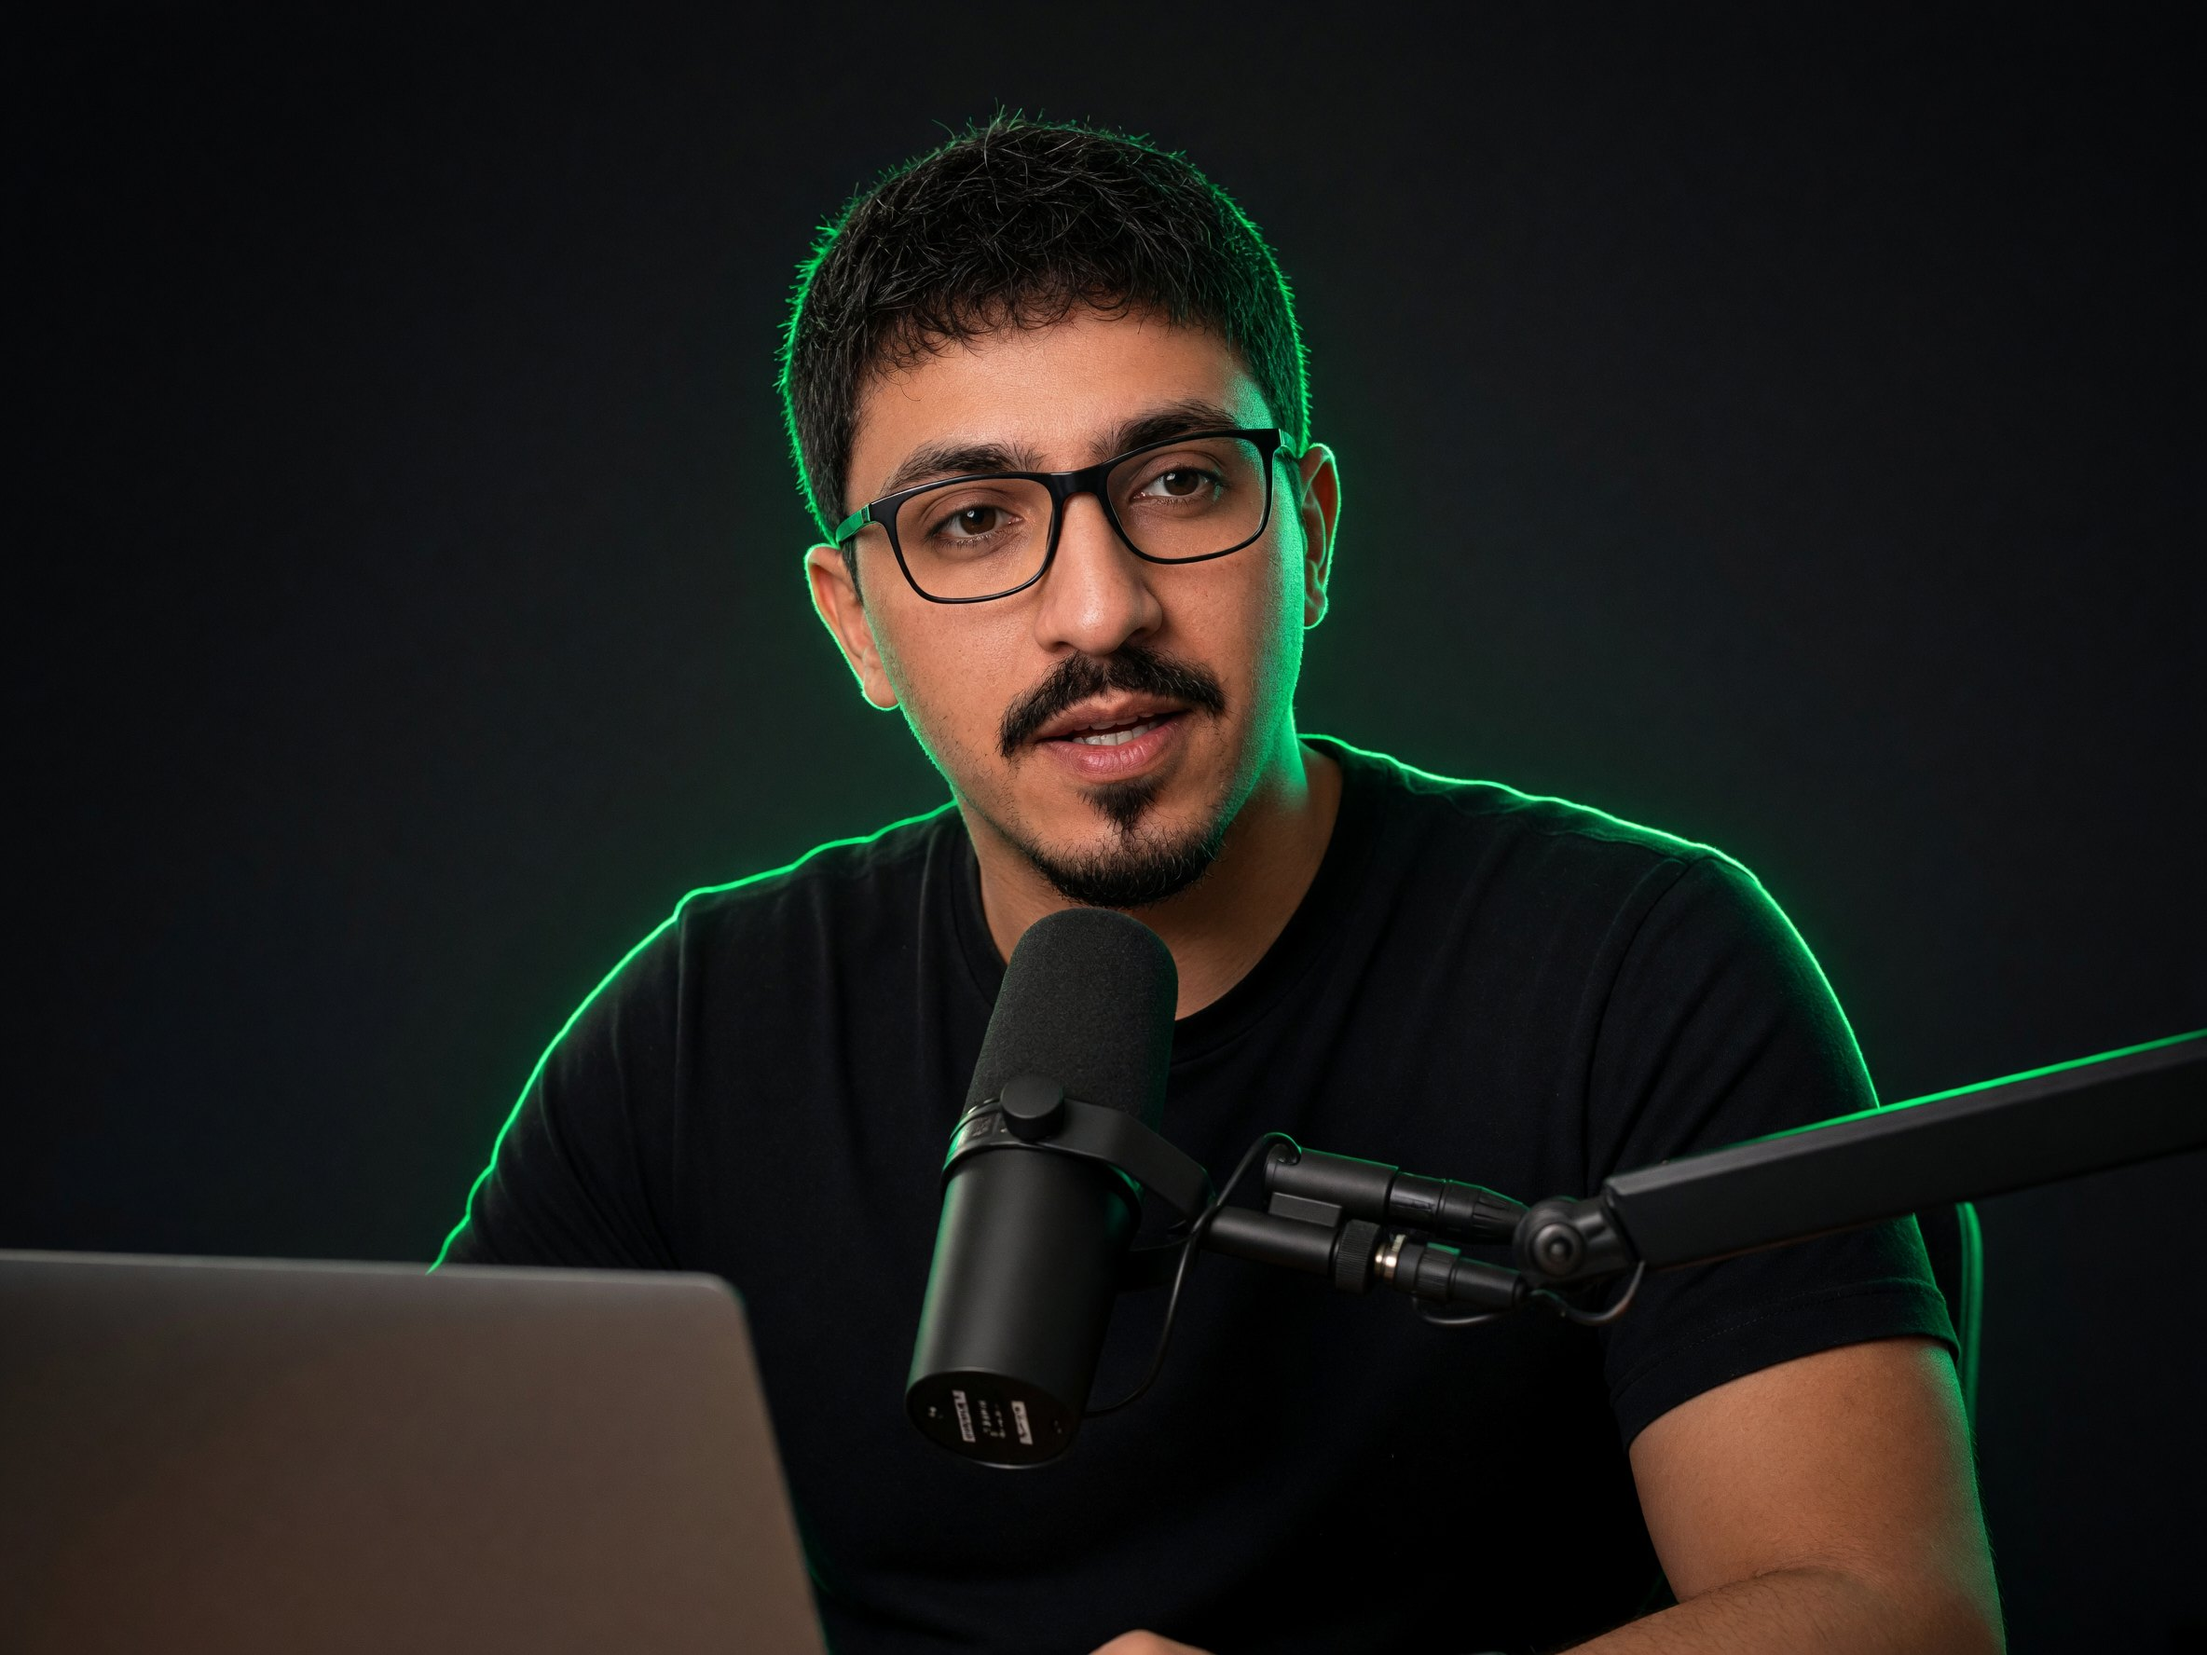
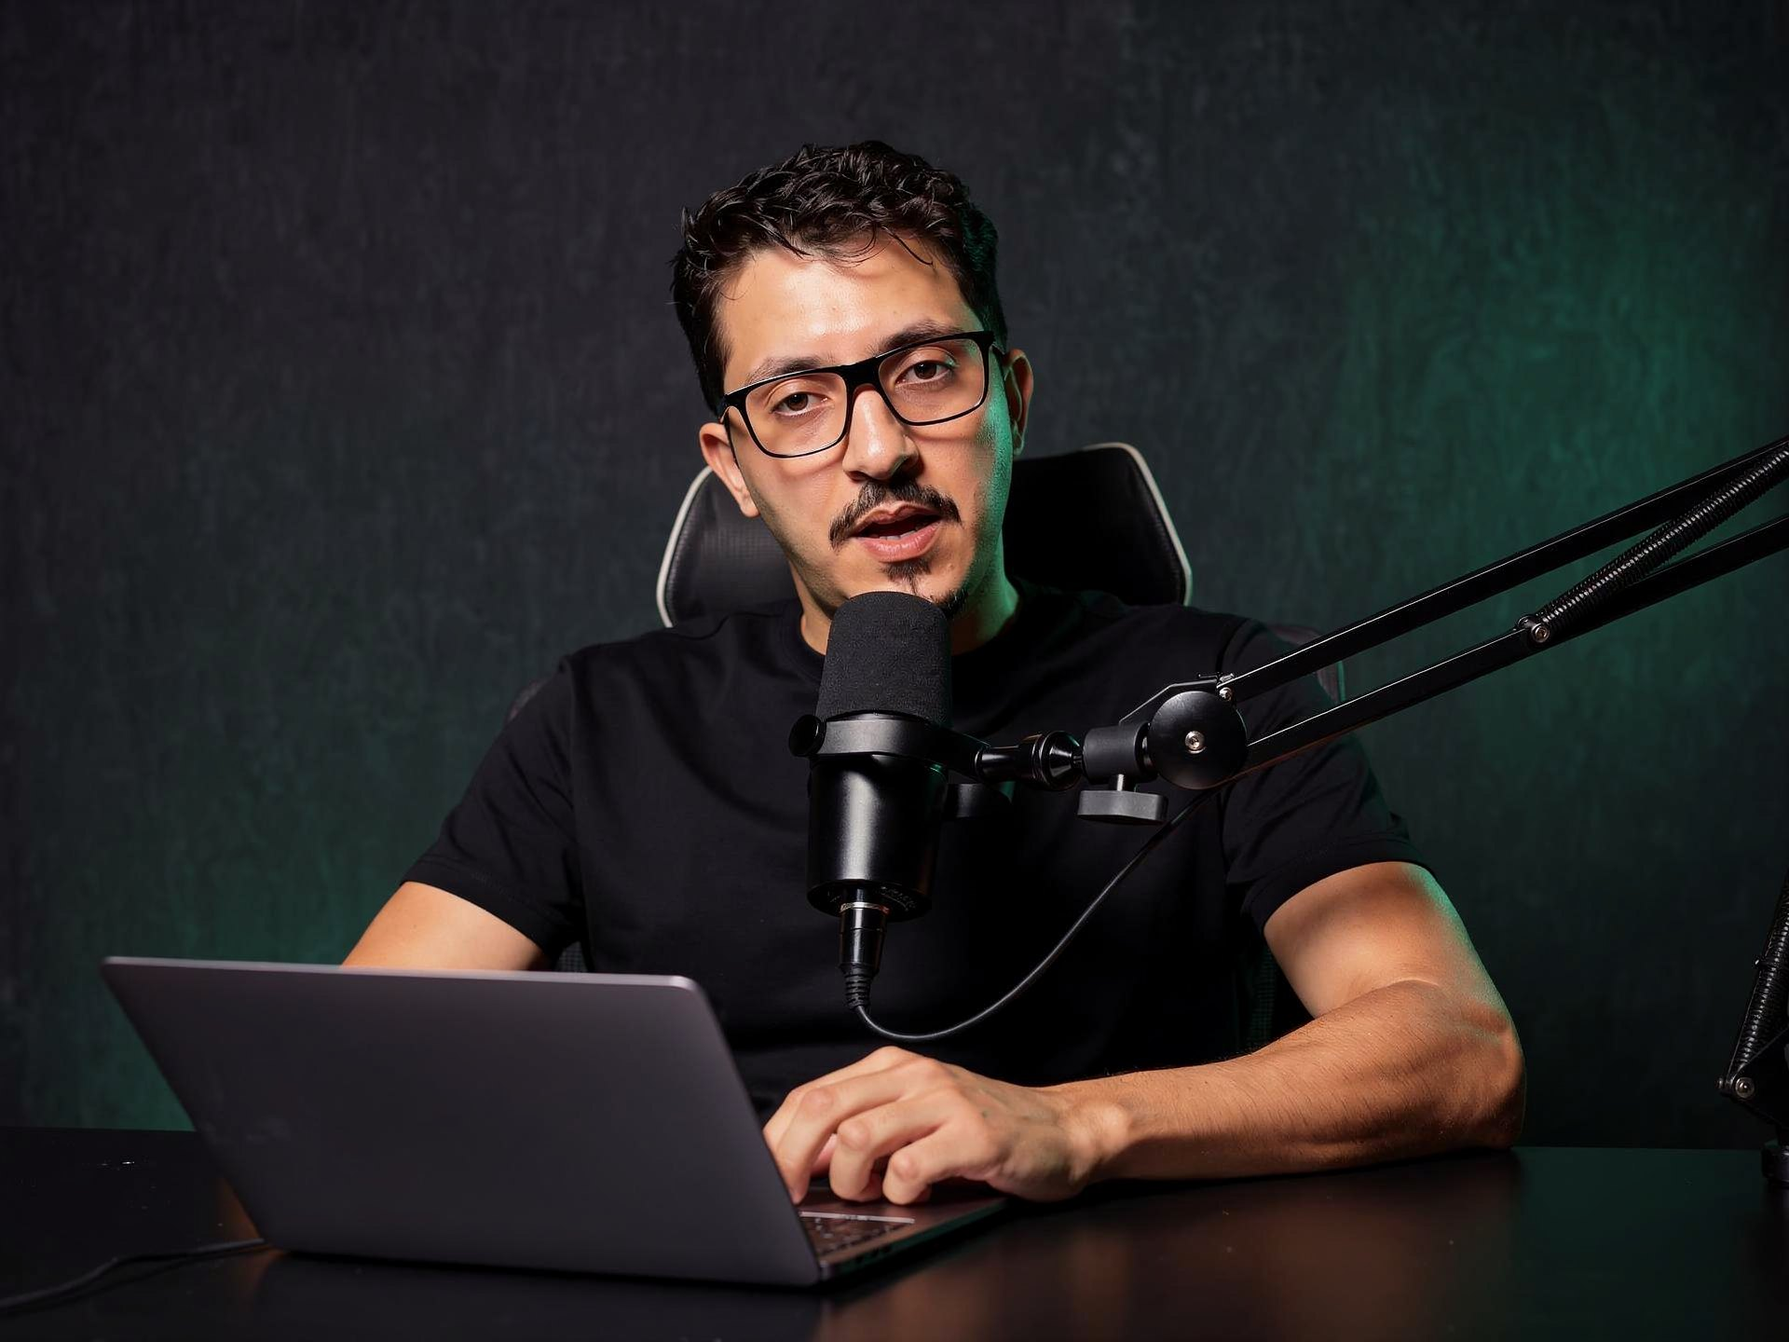
assets: regenerate visuals with Flux 2 Pro and Riyad's real photos
Grok Imagine with the single retouched kit headshot drifted from how Riyad
looks (no glasses, slimmer face). V01–V05 are regenerated with Flux 2 Pro
(2k) using five references: a new photo (IMG_2038), three real studio
stills and the kit headshot. Prompts add his black rectangular glasses,
wavy hair and moustache/goatee; V02/V03 prompts now forbid labels/logos on
the mic and phone. Side-by-side test on V01: Flux kept the glasses and real
face, Grok did not.

New slot V08: matching desktop hero (16:9, subject right), so desktop and
mobile show the same person; kit A05 stays in public/brand.

Cost ~$1.03 (6 × Flux ≈ $0.15 + 1 Grok test $0.13). All visuals remain
approved:false pending Riyad's likeness sign-off.

diff --git a/src/lib/brand.ts b/src/lib/brand.ts
@@ -114,23 +114,27 @@ export const BRAND = {
     // Kit assets (brief §6.1) live in /public/brand
     avatar: '/brand/profile-picture_800.jpg',
     og: '/brand/og-image_1200x630.jpg',
-    heroDesktop: '/brand/hero_2816x1584.jpg',
+    // A05 (hero_2816x1584.jpg) stays in public/brand as a kit asset; V08 is the desktop hero
     // A07 (hero-vertical) stays in public/brand as a kit asset; V01 is the mobile hero
     oranPlate: '/brand/oran-plate_2816x1584.jpg',
     speakerCard: '/brand/story-speaker-card_1080x1920.jpg',
   },
 
   /**
-   * Generated visuals (brief §6.2), grok-imagine-2 with Riyad's reference photo.
+   * Generated visuals (brief §6.2). V01–V05: Flux 2 Pro with five of Riyad's
+   * real photos as references (glasses, hair, beard match); V06: grok-imagine-2.
    * `approved` records Riyad's likeness sign-off (brief §6.4 step 1) — flip it
    * per image once approved; nothing here should ship before that.
    */
   visuals: {
-    V01: { src: '/brand/V01_mobile-hero.jpg', width: 1776, height: 2368, alt: 'Riyad Ketami, portrait at night in Oran', approved: false },
-    V02: { src: '/brand/V02_card-darija.jpg', width: 2368, height: 1776, alt: 'Riyad recording an AI breakdown at his desk', approved: false },
-    V03: { src: '/brand/V03_card-launch.jpg', width: 2368, height: 1776, alt: 'Riyad filming a vertical video with a phone rig', approved: false },
-    V04: { src: '/brand/V04_card-talks.jpg', width: 2368, height: 1776, alt: 'Riyad speaking on stage', approved: false },
-    V05: { src: '/brand/V05_about-oran.jpg', width: 2496, height: 1664, alt: 'Riyad on the Oran seafront', approved: false },
+    V01: { src: '/brand/V01_mobile-hero.jpg', width: 1440, height: 1920, alt: 'Riyad Ketami, portrait at night in Oran', approved: false },
+    V02: { src: '/brand/V02_card-darija.jpg', width: 1920, height: 1440, alt: 'Riyad recording an AI breakdown at his desk', approved: false },
+    V03: { src: '/brand/V03_card-launch.jpg', width: 1920, height: 1440, alt: 'Riyad filming himself with his phone', approved: false },
+    V04: { src: '/brand/V04_card-talks.jpg', width: 1920, height: 1440, alt: 'Riyad speaking on stage', approved: false },
+    V05: { src: '/brand/V05_about-oran.jpg', width: 1920, height: 1280, alt: 'Riyad on the Oran seafront', approved: false },
+    // V08 (new slot): desktop hero in the same Flux set, so desktop and mobile match.
+    // Kit A05 (hero_2816x1584.jpg) remains in public/brand as the fallback.
+    V08: { src: '/brand/V08_desktop-hero.jpg', width: 1920, height: 1088, alt: 'Riyad Ketami, portrait at night in Oran', approved: false },
     V06: { src: '/brand/V06_abb-texture.jpg', width: 2816, height: 1584, alt: '', approved: false },
   },
 } as const;

diff --git a/src/components/home/Hero.tsx b/src/components/home/Hero.tsx
@@ -17,11 +17,11 @@ const HERO_ALT = BRAND.visuals.V01.alt;
 export default function Hero({ locale, dict }: HeroProps) {
   const t = dict.home.hero;
 
-  // Art direction: A05 (subject right, text left) on desktop, V01 (3:4, space on top) on mobile.
+  // Art direction: V08 (subject right, text left) on desktop, V01 (3:4) on mobile.
   const common = { alt: HERO_ALT, sizes: '100vw', fetchPriority: 'high' as const, loading: 'eager' as const };
   const {
     props: { srcSet: desktopSrcSet },
-  } = getImageProps({ ...common, src: BRAND.images.heroDesktop, width: 2816, height: 1584 });
+  } = getImageProps({ ...common, src: BRAND.visuals.V08.src, width: BRAND.visuals.V08.width, height: BRAND.visuals.V08.height });
   const {
     props: { srcSet: mobileSrcSet, ...img },
   } = getImageProps({ ...common, src: BRAND.visuals.V01.src, width: BRAND.visuals.V01.width, height: BRAND.visuals.V01.height });
@@ -60,9 +60,9 @@ export default function Hero({ locale, dict }: HeroProps) {
       </div>
 
       {/* Mobile: portrait below the copy, in flow. Desktop: full-bleed background, subject right.
-          [VISUAL V07] (optional loop) would use A05 as its poster. */}
+          [VISUAL V07] (optional loop) would use V08 as its poster. */}
       <div
-        data-visual="A05 V01"
+        data-visual="V08 V01"
         className="relative order-2 aspect-[3/4] w-full md:absolute md:inset-0 md:-z-10 md:aspect-auto"
       >
         <picture>

diff --git a/KETAMI_BRAND_REVIEW.md b/KETAMI_BRAND_REVIEW.md
@@ -269,12 +269,13 @@ Cost rule: estimate first; under $1 per request and $3 total → go; above → a
 ### 6.5 Manifest status (keep this table updated)
 | ID | Status | File | Approved by Riyad |
 |---|---|---|---|
-| V01 | generated 13 Oct 2026 — live as mobile hero | `public/brand/V01_mobile-hero.jpg` | pending |
-| V02 | generated — live on "What I do" card 1 (note: small printed label on the mic body) | `public/brand/V02_card-darija.jpg` | pending |
-| V03 | generated — live on "What I do" card 2 (note: small emblem on the phone back) | `public/brand/V03_card-launch.jpg` | pending |
-| V04 | generated — live on "What I do" card 3 (replace with real ECSEL photo when available) | `public/brand/V04_card-talks.jpg` | pending |
-| V05 | generated — live on /about | `public/brand/V05_about-oran.jpg` | pending |
-| V06 | generated — not placed: the brief asks for a dark texture on the ABB block, which §3.1 makes the light `--paper` section | `public/brand/V06_abb-texture.jpg` | n/a (no person) |
+| V01 | regenerated 13 Oct 2026 with Flux 2 Pro + 5 real reference photos — live as mobile hero | `public/brand/V01_mobile-hero.jpg` | pending |
+| V02 | regenerated (Flux 2) — live on "What I do" card 1; no label on the mic | `public/brand/V02_card-darija.jpg` | pending |
+| V03 | regenerated (Flux 2) — live on "What I do" card 2; handheld phone (no rig), no logo | `public/brand/V03_card-launch.jpg` | pending |
+| V04 | regenerated (Flux 2) — live on "What I do" card 3 (replace with real ECSEL photo when available) | `public/brand/V04_card-talks.jpg` | pending |
+| V05 | regenerated (Flux 2) — live on /about | `public/brand/V05_about-oran.jpg` | pending |
+| V06 | generated (grok) — not placed: the brief asks for a dark texture on the ABB block, which §3.1 makes the light `--paper` section | `public/brand/V06_abb-texture.jpg` | n/a (no person) |
+| V08 | **new slot** — desktop hero (16:9, subject right), Flux 2, so desktop matches mobile; replaces A05 on the site (A05 kept in public/brand) | `public/brand/V08_desktop-hero.jpg` | pending |
 | V07 | not generated (optional; held until stills are approved) | — | — |
 
 ---
